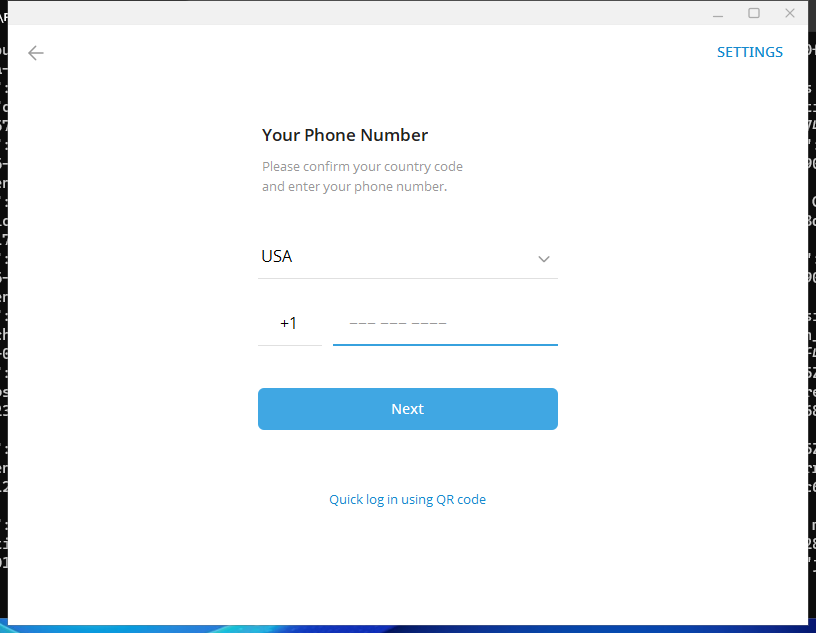
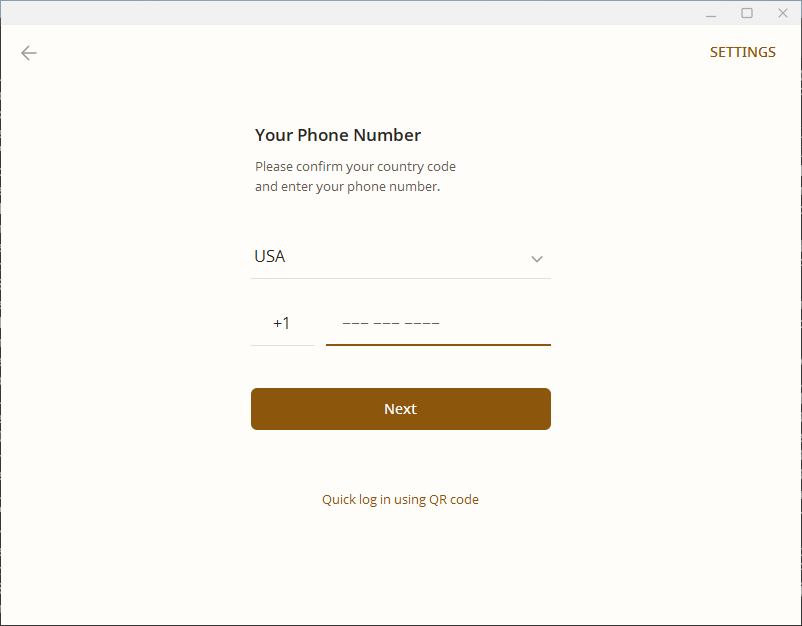
Show verified native Windows light and dark appearance

diff --git a/README.md b/README.md
@@ -22,24 +22,25 @@ CapybaraGram развивает привычный Telegram в сторону л
 
 Первый этап оформления реализован в исходниках: **Capybara Light / Capybara Dark**, тёплая светлая и графитовая тёмная палитры с янтарными акцентами. Подготовлены цвета основных экранов, фон и отдельный доступ к инструментам CapybaraGram из шапки чата. Это ещё не завершённая переработка интерфейса по концепту.
 
-**В работающем приложении проверены стартовые экраны Android:** запуск по значку, переключение тем и индикатор страниц. Внутренние экраны Android ещё требуют визуальной приёмки. **Новое оформление Windows пока не проверено в готовом EXE:** соответствующая сборка ещё выполняется. Опубликованные ниже Windows-снимки относятся к старому оформлению. [Как устроено оформление и что перенесено из концепта](docs/APPEARANCE.md).
+**В работающем приложении проверены стартовые экраны Android:** запуск по значку, переключение тем и индикатор страниц. Внутренние экраны Android ещё требуют визуальной приёмки. **Новое оформление Windows проверено на стартовом экране и пустой форме номера в обеих темах.** На тёмной форме фон остаётся графитовым. Внутренние экраны с тестовым аккаунтом ещё требуют отдельной визуальной приёмки. [Как устроено оформление и что перенесено из концепта](docs/APPEARANCE.md).
 
 ## Как выглядит приложение
 
-Ниже — **реальные снимки стартовых экранов тестовых сборок**, снятые без входа в аккаунт. Android показан с новой палитрой, Windows — в предыдущем оформлении. Эти снимки не подтверждают готовность нового интерфейса внутри чатов.
+Ниже — **реальные снимки стартовых экранов тестовых сборок**, снятые без входа в аккаунт. Обе платформы показаны с новой палитрой. Эти снимки не подтверждают готовность нового интерфейса внутри чатов.
 
 <table>
-<tr><th>Android · новое оформление</th><th>Windows · предыдущая сборка</th></tr>
+<tr><th>Android · новое оформление</th><th>Windows · новое оформление</th></tr>
 <tr>
 <td align="center"><img src="docs/images/android-start.png" width="240" alt="Реальный экран первого запуска CapybaraGram на Android"></td>
-<td align="center"><img src="docs/images/windows-start.png" width="540" alt="Реальный экран первого запуска Windows Release CapybaraGram"></td>
+<td align="center"><img src="docs/images/windows-start.png" width="540" alt="Реальный экран новой Windows Release сборки CapybaraGram"></td>
 </tr>
 </table>
 
 <details>
-<summary>Ещё два экрана: тёмная тема Android и вход по номеру на Windows</summary>
-<p>Новая тёмная тема Android и <strong>светлая</strong> форма входа предыдущей Windows-сборки. Тёмно-зелёная шапка на стартовом экране Windows — отдельное старое оформление, а не включённая тёмная тема. Поле номера пустое; настоящие аккаунты не использовались.</p>
-<p><img src="docs/images/android-dark.png" width="230" alt="Текущая тёмная тема стартового экрана Android"> <img src="docs/images/windows-phone.png" width="510" alt="Пустая форма входа по номеру на Windows"></p>
+<summary>Тёмные темы и формы входа Windows</summary>
+<p>Реальные светлая и тёмная темы новой Windows-сборки. Поля номера пустые; QR-коды и авторизованные аккаунты в этих проверках не использовались. Android также показан в тёмной теме.</p>
+<p><img src="docs/images/android-dark.png" width="230" alt="Тёмная тема стартового экрана Android"> <img src="docs/images/windows-dark.png" width="510" alt="Новая графитовая тема стартового экрана Windows"></p>
+<p><img src="docs/images/windows-phone.png" width="400" alt="Новая светлая форма номера Windows"> <img src="docs/images/windows-phone-dark.png" width="400" alt="Новая тёмная форма номера Windows с графитовым фоном"></p>
 </details>
 
 [Происхождение скриншотов](docs/images/README.md).
@@ -77,9 +78,9 @@ CapybaraGram развивает привычный Telegram в сторону л
 | --- | --- |
 | Android ARM64 APK с новым оформлением и первой реализацией «нечиталки» | [Сборка 34156952657](https://github.com/AlbertBoss/capybaragram-build/actions/runs/34156952657) |
 | Android: установка, стартовые экраны и перезапуск | [Проверка 34159878677](https://github.com/AlbertBoss/capybaragram-build/actions/runs/34159878677) |
-| Windows x64 Release EXE | [Сборка 34031740962](https://github.com/AlbertBoss/capybaragram-build/actions/runs/34031740962) |
-| Windows: переход к пустой форме входа | [Проверка 34059187270](https://github.com/AlbertBoss/capybaragram-build/actions/runs/34059187270) |
-| Windows: установщик, замена и сохранность тестовых файлов | [Проверка 34060238891](https://github.com/AlbertBoss/capybaragram-build/actions/runs/34060238891) |
+| Windows x64 Release EXE | [Сборка 37070585321](https://github.com/AlbertBoss/capybaragram-build/actions/runs/37070585321) |
+| Windows: светлая и тёмная темы, переход к пустой форме номера | [Проверка 37155302094](https://github.com/AlbertBoss/capybaragram-build/actions/runs/37155302094) |
+| Windows: установщик, замена и сохранность тестовых файлов | [Проверка 37096165716](https://github.com/AlbertBoss/capybaragram-build/actions/runs/37096165716) |
 
 Стабильные релизы ещё не опубликованы. Артефакты Actions временные: ссылки показывают историю проверок, а не постоянный каталог скачивания. [Как собрать приложение](docs/BUILDING.md).
 

diff --git a/docs/VERIFICATION.md b/docs/VERIFICATION.md
@@ -2,7 +2,7 @@
 
 [← К проекту](../README.md)
 
-Срез на **8 сентября 2026 года**. Ссылки ведут к конкретным запускам. Этот перечень не является полным аудитом безопасности или доказательством готовности к повседневному использованию.
+Срез на **4 октября 2026 года**. Ссылки ведут к конкретным запускам. Этот перечень не является полным аудитом безопасности или доказательством готовности к повседневному использованию.
 
 ## Нативные сборки и сценарии
 
@@ -10,11 +10,11 @@
 | --- | --- | --- |
 | [Android APK · 34156952657](https://github.com/AlbertBoss/capybaragram-build/actions/runs/34156952657) | Полная сборка; подпись, release-флаги, ARM64, 12 production-классов DEX, точные новые темы | Без проверки «нечиталки» с живым собеседником |
 | [Android до входа · 34159878677](https://github.com/AlbertBoss/capybaragram-build/actions/runs/34159878677) | Установка, значок, шесть страниц, темы, отказ в необязательном разрешении, форма входа и перезапуск; 12 ключевых снимков просмотрены | Без реального входа и физических телефонов; внутри чатов визуальная приёмка продолжается |
-| [Windows Release · 34031740962](https://github.com/AlbertBoss/capybaragram-build/actions/runs/34031740962) | Release x64 и 95 проверок Qt-кода авторизации | Не все функции после входа и не производительность на любых компьютерах |
-| [Windows до входа · 34059187270](https://github.com/AlbertBoss/capybaragram-build/actions/runs/34059187270) | Нативные переходы к пустой форме номера; скриншоты просмотрены | Без аккаунта |
-| [Windows installer · 34060238891](https://github.com/AlbertBoss/capybaragram-build/actions/runs/34060238891) | Установка, замена изменённого EXE на проверенный, ярлык, запуск и удаление; тестовые файлы профиля сохранены | Без действующей авторизации и миграции формата профиля |
+| [Windows Release · 37070585321](https://github.com/AlbertBoss/capybaragram-build/actions/runs/37070585321) | Release x64 и 95 проверок Qt-кода авторизации | Не все функции после входа и не производительность на любых компьютерах |
+| [Windows до входа · 37155302094](https://github.com/AlbertBoss/capybaragram-build/actions/runs/37155302094) | Обе новые темы, переход к пустой форме номера, фактический цвет фона; четыре снимка просмотрены | Без аккаунта |
+| [Windows installer · 37096165716](https://github.com/AlbertBoss/capybaragram-build/actions/runs/37096165716) | Установка, замена изменённого EXE на проверенный, ярлык, запуск и удаление; тестовые файлы профиля сохранены | Без действующей авторизации и миграции формата профиля |
 
-Android-скриншоты относятся к APK 34156952657 и тесту 34159878677. Windows-снимки показывают предыдущий Release. Сборка оформления 34153588919 успешно завершилась, но её временный артефакт уже недоступен; повторный запуск 37067904374 выявил недоступный пакет инструмента сборки. Исправленный рецепт и новый Windows-файл требуют отдельной проверки. [Подробности проверки оформления](APPEARANCE.md).
+Android-скриншоты относятся к APK 34156952657 и тесту 34159878677. Windows-снимки показывают новый Release 37070585321 с нативными палитрами. Исправленный рецепт сборки выполнен успешно. Проверки пустого профиля и установщика подтверждены для этого точного EXE; внутренние экраны и действующий аккаунт остаются отдельным этапом. [Подробности проверки оформления](APPEARANCE.md).
 
 ## Проверка локальной заметки Windows
 
@@ -34,8 +34,8 @@ Android-скриншоты относятся к APK 34156952657 и тесту 3
 | Файл | SHA-256 |
 | --- | --- |
[5 lines of base64/hex data omitted]
 
[1 lines of base64/hex data omitted]
 

diff --git a/docs/images/README.md b/docs/images/README.md
@@ -5,13 +5,13 @@
 Изображения скопированы без изменения содержимого. Опубликованные стартовые экраны сняты в одноразовом CI-окружении без авторизованного Telegram-аккаунта. Личной переписки, номера пользователя и кода входа на них нет.
 
 - **Android, новая палитра:** APK [34156952657](https://github.com/AlbertBoss/capybaragram-build/actions/runs/34156952657), снимки [34159878677](https://github.com/AlbertBoss/capybaragram-build/actions/runs/34159878677). Установка, стартовые сценарии и переключение тем прошли; 12 ключевых снимков проверены. Индикатор страниц соответствует палитре. Предыдущая попытка [34158944393](https://github.com/AlbertBoss/capybaragram-build/actions/runs/34158944393) не открыла список приложений системного лаунчера. После однократного восстановления лаунчера новый тест проверил видимый значок, открытие клиента по нему и все стартовые сценарии; APK не изменялся.
-- **Windows, прежнее оформление:** EXE [34031740962](https://github.com/AlbertBoss/capybaragram-build/actions/runs/34031740962), снимки [34059187270](https://github.com/AlbertBoss/capybaragram-build/actions/runs/34059187270). Сборка с новым стилем ещё выполняется.
+- **Windows, новая палитра:** EXE [37070585321](https://github.com/AlbertBoss/capybaragram-build/actions/runs/37070585321), снимки [37155302094](https://github.com/AlbertBoss/capybaragram-build/actions/runs/37155302094). Проверены обе темы и переход к пустой форме номера. Четыре снимка просмотрены; они скопированы побайтово, без ретуши интерфейса, курсора или постороннего рабочего стола.
 
 Снимки показывают запуск и пустую форму номера. Они не доказывают работу заметок, шаблонов, «нечиталки» или готовность нового оформления переписки. Контрольные суммы: [provenance.json](provenance.json).
 
 ## Светлая и тёмная темы Windows
 
-Оба опубликованных Windows-снимка относятся к светлой теме. Зелёный верх стартового экрана — отдельная декоративная шапка предыдущего оформления. Он не означает, что весь клиент работает в тёмной теме. Проверка новой версии будет включать обе темы и переход к пустой форме номера.
+Опубликованы стартовый экран и пустая форма номера в каждой из двух тем. В тёмной теме графитовый фон сохраняется после перехода к вводу номера; в светлой используется тёплый оттенок бумаги. Проверка цвета выполнена по фактическим пикселям формы, а не только по выбранной настройке темы.
 
 ## Внутренние экраны
 

diff --git a/docs/APPEARANCE.md b/docs/APPEARANCE.md
@@ -22,7 +22,7 @@
 
 **Android:** [сборка 34156952657](https://github.com/AlbertBoss/capybaragram-build/actions/runs/34156952657) прошла проверку подписи, release-параметров и встроенных тем. [Проверка 34159878677](https://github.com/AlbertBoss/capybaragram-build/actions/runs/34159878677) подтвердила установку, шесть стартовых страниц, переключение тем, форму номера и перезапуск. Все 12 ключевых снимков просмотрены. Поля ввода, пояснение разрешения и индикатор страниц соответствуют новой палитре. В эмуляторе потребовался однократный перезапуск системного лаунчера; затем проверены видимый значок и запуск приложения нажатием на него.
 
-**Windows:** [сборка с новым оформлением 34153588919](https://github.com/AlbertBoss/capybaragram-build/actions/runs/34153588919) успешно завершилась, но её временный Actions-артефакт уже недоступен. [Повторная сборка 37067904374](https://github.com/AlbertBoss/capybaragram-build/actions/runs/37067904374) остановилась из-за недоступного пакета инструмента сборки; рецепт исправлен, результат следующей сборки ещё требуется проверить. Показанные в репозитории Windows-снимки относятся к предыдущему оформлению.
+**Windows:** [сборка 37070585321](https://github.com/AlbertBoss/capybaragram-build/actions/runs/37070585321) успешно завершилась; архив и Release EXE x64 сверены по SHA-256, 95 проверок кода авторизации прошли. [Проверка 37155302094](https://github.com/AlbertBoss/capybaragram-build/actions/runs/37155302094) подтвердила светлую и тёмную темы, переход к пустой форме номера и фактический цвет её фона. Все четыре новых снимка просмотрены; курсора и постороннего рабочего стола на них нет. [Установщик 37096165716](https://github.com/AlbertBoss/capybaragram-build/actions/runs/37096165716) прошёл установку, замену изменённого EXE, проверку ярлыка и версии, удаление с сохранением искусственных тестовых файлов. Это не проверка действующей авторизации после обновления.
 
 Стартовые тесты не подтверждают вид каждого экрана после входа и работу редакторов в реальной переписке. Скачиваемая preview для обеих платформ ещё готовится.
 

diff --git a/docs/BUILDING.md b/docs/BUILDING.md
@@ -15,7 +15,7 @@
 
 Версии upstream и подмодулей закреплены. Подготовка скачивает зависимости; SHA исходного репозитория не закрепляет автоматически каждый внешний ресурс.
 
-В Windows-рецепте удалён запрос недоступного `mingw-w64-x86_64-diffutils`: вместо него устанавливается официальный пакет [MSYS2 diffutils](https://packages.msys2.org/packages/diffutils). Исправление применяется только к проверенным байтам закреплённого рецепта; после установки вызывается конкретный `usr/bin/diff.exe`. Проверка подписей pacman сохраняется. Это инструмент сборки, который не включается в клиент. Необходимость исправления подтверждена [журналом запуска 37067904374](https://github.com/AlbertBoss/capybaragram-build/actions/runs/37067904374).
+В Windows-рецепте удалён запрос недоступного `mingw-w64-x86_64-diffutils`: вместо него устанавливается официальный пакет [MSYS2 diffutils](https://packages.msys2.org/packages/diffutils). Исправление применяется только к проверенным байтам закреплённого рецепта; после установки вызывается конкретный `usr/bin/diff.exe`. Проверка подписей pacman сохраняется. Это инструмент сборки, который не включается в клиент. Необходимость исправления подтверждена [журналом запуска 37067904374](https://github.com/AlbertBoss/capybaragram-build/actions/runs/37067904374); исправленный рецепт завершился успешной [сборкой 37070585321](https://github.com/AlbertBoss/capybaragram-build/actions/runs/37070585321).
 
 ## Параметры приложения
 
